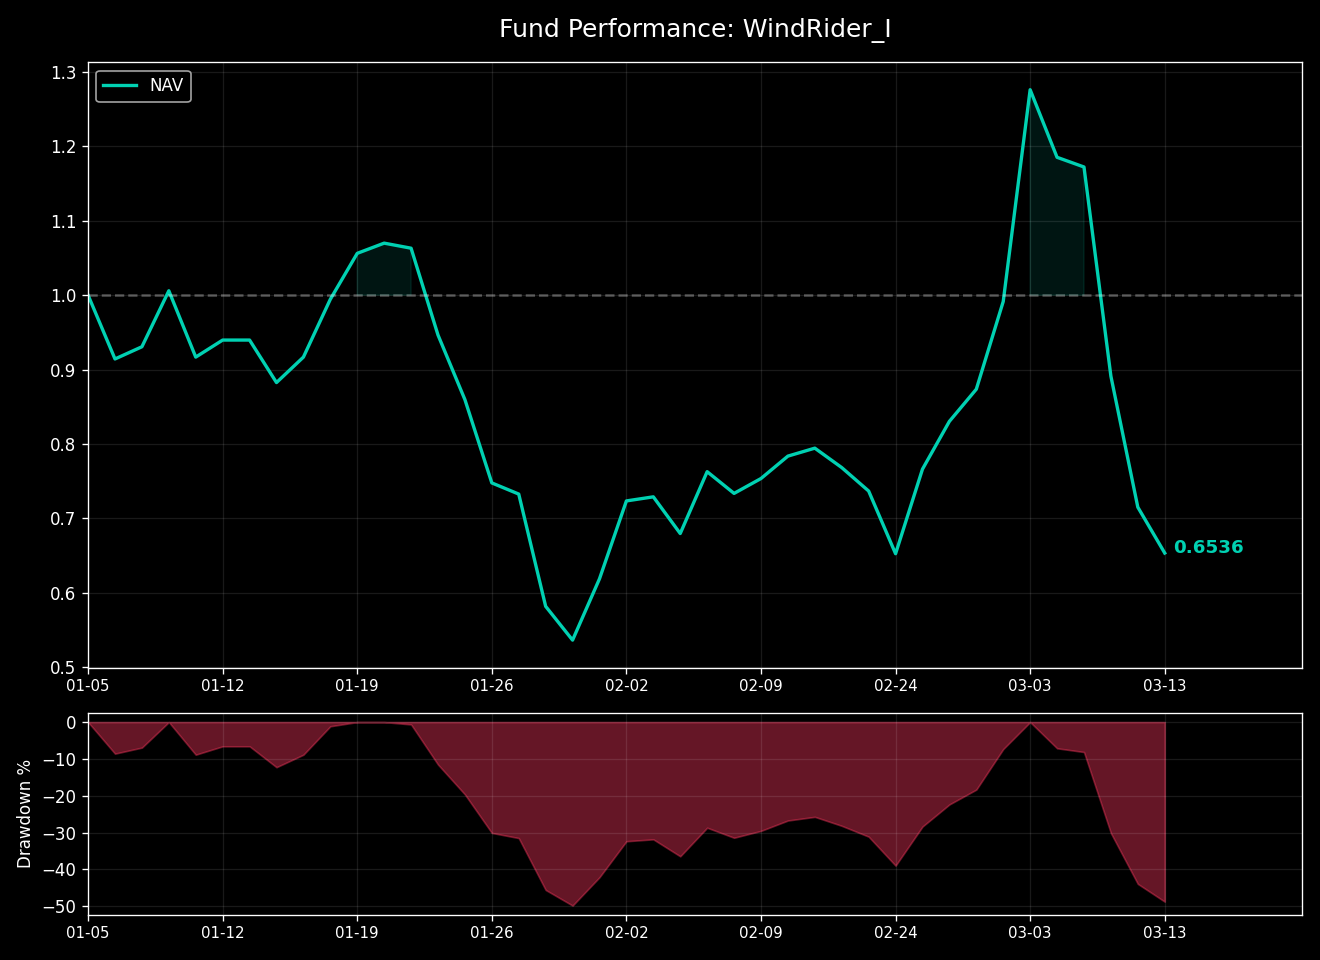
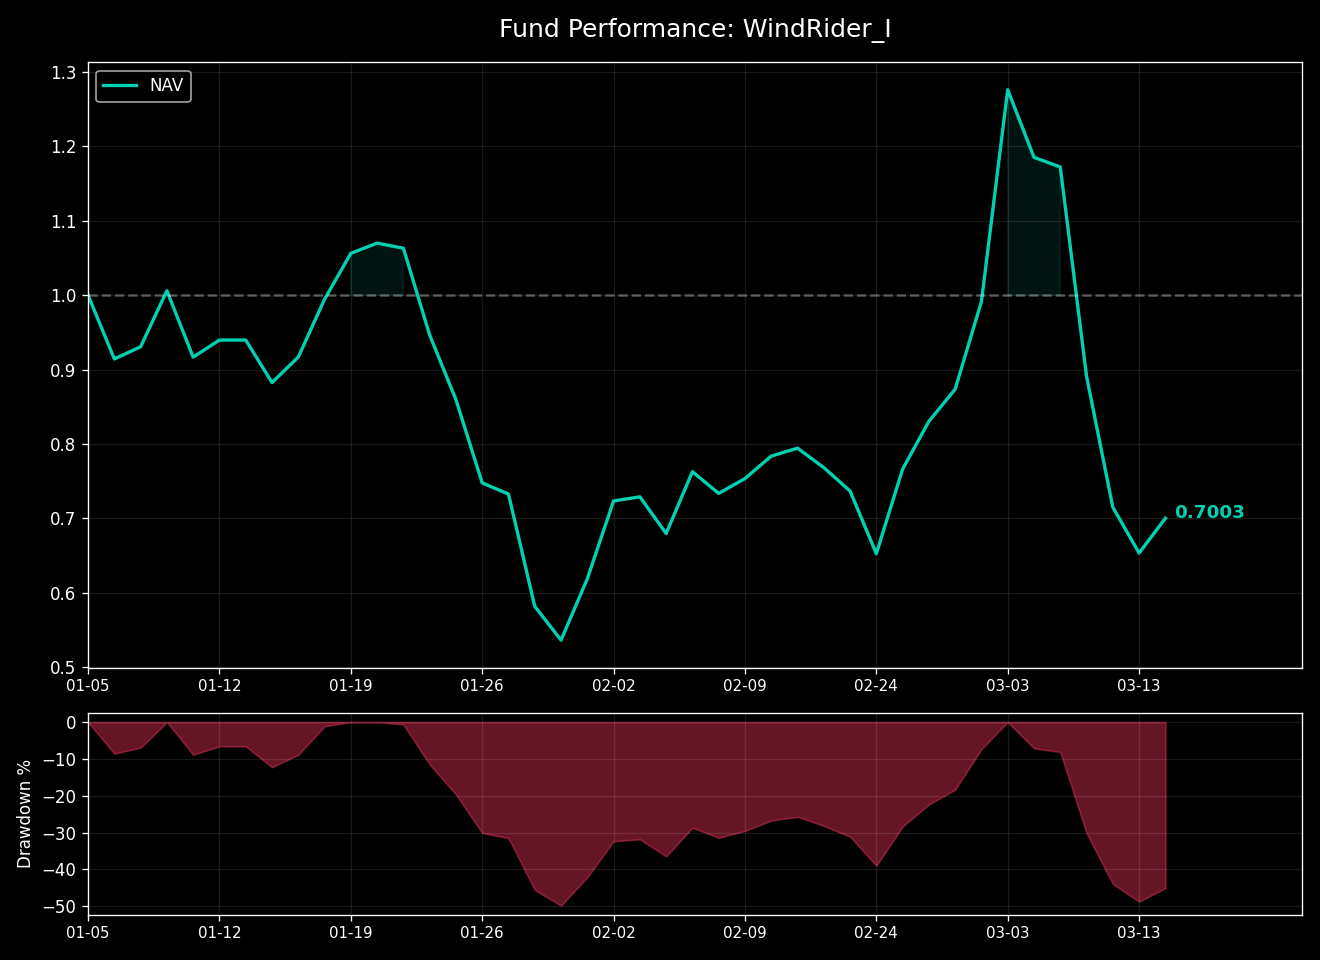
Updated Hugo site content

diff --git a/content/investment/windrider-1.md b/content/investment/windrider-1.md
@@ -1,8 +1,8 @@
 +++
 title = "风舵1号 (WindRider I)  /// 指数"
 summary = "商品期货分形摆动策略，实盘最新净值与核心风险指标。"
-date = 2026-03-13T15:15:03+08:00
-lastmod = 2026-03-13T15:15:03+08:00
+date = 2026-03-16T15:15:04+08:00
+lastmod = 2026-03-16T15:15:04+08:00
 draft = false
 description = "商品期货分形摆动策略实盘"
 +++
@@ -15,24 +15,24 @@ description = "商品期货分形摆动策略实盘"
 
 ### 风舵1号 (WindRider I) &nbsp;&nbsp;<span style="color: #E63946; font-weight: bold;">/</span><span style="color: #F1A73E; font-weight: bold;">/</span><span style="color: #000091; font-weight: bold;">/</span>&nbsp;&nbsp; 指数
 商品期货分形摆动策略实盘<br>
-净值简报 <small>(截至: 2026-03-13)</small>
+净值简报 <small>(截至: 2026-03-16)</small>
 
 |  |  |
 | :--- | :--- |
 | **指数代码：** | WDR1.CTA |
 | **起步日期：** | 2026-01-05 |
-| **最新净值：** | 0.6536 |
-| **今日涨跌：** | -8.61% |
+| **最新净值：** | 0.7003 |
+| **今日涨跌：** | +7.15% |
 
 ===========================
 
 | 核心指标 | |
 | :--- | :--- |
-| **累计涨跌：** | -34.64% |
-| **年化收益：** | -90.14% |
+| **累计涨跌：** | -29.97% |
+| **年化收益：** | -84.39% |
 | **最大回撤：** | -49.85% |
-| **卡玛比率：** | -1.81 |
-| **策略状态：** | 已运行 68 天 |
+| **卡玛比率：** | -1.69 |
+| **策略状态：** | 已运行 71 天 |
 
 ### 净值曲线
 ![风舵1号净值曲线](/images/investment/windrider_nav.png)
